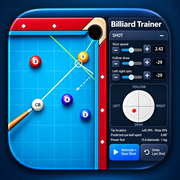
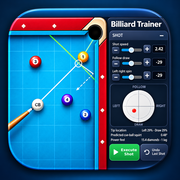
Introduce Trainer, Play, and Zen on the installer
Expand the hero with the all-in-one platform description and add friendly explanations of all three experiences. Replace the older installer artwork and PWA icons with approved green Execute Shot assets, and refresh their URLs. Keep the shared community script from starting Trainer controls on installer pages.

Changed region(s): [[0.5833, 0.7778, 0.7778, 0.9167]]

diff --git a/install/android/index.html b/install/android/index.html
@@ -1,1 +1,1 @@
-<!doctype html><html lang="en"><head><meta charset="utf-8"><meta name="viewport" content="width=device-width,initial-scale=1,viewport-fit=cover"><meta name="theme-color" content="#11151b"><link rel="icon" href="../assets/billiards-trainer-icon.png"><link rel="stylesheet" href="../assets/installer.css"><title>Billiards Trainer – Android Installer</title></head><body><div class="shell"><a class="back" href="../">← Universal installer</a><div class="brand"><img src="../assets/billiards-trainer-icon.png" alt="Billiards Trainer icon"><div><h1>Billiards Trainer 4.12</h1><p>Android full-screen edition</p></div></div><div class="card recommended"><h2>Install Billiards Trainer</h2><p class="lead">The full-screen Android app removes the browser bars and opens directly into the current AI Camera Edition.</p><div class="actions"><a class="btn install-primary" href="../../downloads/Billiards-Trainer-Android.apk" download>INSTALL BILLIARDS TRAINER</a></div><div class="notice" style="margin-top:18px"><strong>First install only:</strong> Android may ask for permission to install apps from your browser. Choose <strong>Settings → Allow from this source</strong>, then return and tap <strong>Install</strong>. This is Android's normal protection for apps installed outside Google Play.</div><p class="muted small" style="margin-bottom:0">After installation, use the Billiards Trainer icon like any other app. Future trainer updates load automatically; you only need a new APK when the wrapper itself changes.</p></div><div class="card"><h2>Send this installer to someone</h2><p class="muted">Share this page—not GitHub, not a ZIP file.</p><div class="actions"><button class="btn secondary" onclick="toggleQR('qr')">Show QR code</button><button class="btn secondary" onclick="copyText('https://lovemyfreetime.github.io/billiards-trainer/install/android/',this)">Copy link</button><button class="btn secondary" onclick="shareLink('Billiards Trainer Android Installer','https://lovemyfreetime.github.io/billiards-trainer/install/android/')">Share link</button></div><div id="qr" class="qrbox"><img src="../qr/android.png" alt="Android installer QR"><div class="qrurl">https://lovemyfreetime.github.io/billiards-trainer/install/android/</div></div></div><footer>Billiards Trainer 4.12 · Android full-screen edition</footer></div><script src="../assets/installer.js"></script></body></html>
+<!doctype html><html lang="en"><head><meta charset="utf-8"><meta name="viewport" content="width=device-width,initial-scale=1,viewport-fit=cover"><meta name="theme-color" content="#11151b"><link rel="icon" href="../assets/billiards-trainer-icon.png?v=green-execute-v2"><link rel="stylesheet" href="../assets/installer.css"><title>Billiards Trainer – Android Installer</title></head><body><div class="shell"><a class="back" href="../">← Universal installer</a><div class="brand"><img src="../assets/billiards-trainer-icon.png?v=green-execute-v2" alt="Billiards Trainer icon"><div><h1>Billiards Trainer 4.12</h1><p>Android full-screen edition</p></div></div><div class="card recommended"><h2>Install Billiards Trainer</h2><p class="lead">The full-screen Android app removes the browser bars and opens directly into the current AI Camera Edition.</p><div class="actions"><a class="btn install-primary" href="../../downloads/Billiards-Trainer-Android.apk" download>INSTALL BILLIARDS TRAINER</a></div><div class="notice" style="margin-top:18px"><strong>First install only:</strong> Android may ask for permission to install apps from your browser. Choose <strong>Settings → Allow from this source</strong>, then return and tap <strong>Install</strong>. This is Android's normal protection for apps installed outside Google Play.</div><p class="muted small" style="margin-bottom:0">After installation, use the Billiards Trainer icon like any other app. Future trainer updates load automatically; you only need a new APK when the wrapper itself changes.</p></div><div class="card"><h2>Send this installer to someone</h2><p class="muted">Share this page—not GitHub, not a ZIP file.</p><div class="actions"><button class="btn secondary" onclick="toggleQR('qr')">Show QR code</button><button class="btn secondary" onclick="copyText('https://lovemyfreetime.github.io/billiards-trainer/install/android/',this)">Copy link</button><button class="btn secondary" onclick="shareLink('Billiards Trainer Android Installer','https://lovemyfreetime.github.io/billiards-trainer/install/android/')">Share link</button></div><div id="qr" class="qrbox"><img src="../qr/android.png" alt="Android installer QR"><div class="qrurl">https://lovemyfreetime.github.io/billiards-trainer/install/android/</div></div></div><footer>Billiards Trainer 4.12 · Android full-screen edition</footer></div><script src="../assets/installer.js"></script></body></html>

diff --git a/install/index.html b/install/index.html
@@ -9,20 +9,40 @@
   <meta name="apple-mobile-web-app-status-bar-style" content="black-translucent">
   <meta name="apple-mobile-web-app-title" content="Trainer Installer">
   <link rel="manifest" href="./manifest.webmanifest">
-  <link rel="apple-touch-icon" href="../apple-touch-icon.png">
-  <link rel="icon" href="./assets/billiards-trainer-icon.png">
-  <link rel="stylesheet" href="./assets/installer.css">
+  <link rel="apple-touch-icon" href="../apple-touch-icon.png?v=green-execute-v2">
+  <link rel="icon" href="./assets/billiards-trainer-icon.png?v=green-execute-v2">
+  <link rel="stylesheet" href="./assets/installer.css?v=three-experiences-v1">
+  <meta name="description" content="Visual training, 20 table-side social games, and distraction-free Zen practice. Install Billiards Trainer on Android, iPad, Chromebook, or Windows.">
   <title>Billiards Trainer AI Edition 4.12 Installer</title>
 </head>
 <body>
   <div class="shell">
     <header class="brand installer-hero">
-      <div class="hero-icon-wrap"><img src="./assets/billiards-trainer-icon.png" alt="Billiards Trainer icon"></div>
+      <div class="hero-icon-wrap"><img src="./assets/billiards-trainer-icon.png?v=green-execute-v2" alt="Billiards Trainer icon"></div>
       <div class="brand-copy">
         <h1>Billiards Trainer <span>AI Edition 4.12 <small class="beta-label">BETA</small></span></h1>
-        <p class="hero-description">A visual billiards training system for learning, teaching and practicing shots, banks, kicks, speed, English and cue-ball paths. Build shots on screen, save layouts, use camera-assisted table setup, or project the trainer onto a real pool table.</p>
+        <p class="hero-description">Billiards Trainer is an all-in-one visual training, table-side gaming, and flow-state practice platform for pool players, coaches, and enthusiasts.</p>
+        <p class="hero-detail">Whether you are mapping out complex cue-ball trajectories on your screen, competing with friends in 20 social game variations with hands-free audio announcements, or slipping into a distraction-free solitary practice session, Billiards Trainer bridges real-world physics with cutting-edge table tools.</p>
       </div>
     </header>
+
+    <section class="experiences" aria-labelledby="experiences-title">
+      <div class="experiences-heading"><div><h2 id="experiences-title">Three experiences. One app.</h2><p>Learn a shot, share a game, or settle into your own rhythm.</p></div><a class="btn secondary" href="../welcome.html">Explore the app</a></div>
+      <div class="experience-grid">
+        <article class="card experience-card experience-zen">
+          <h3><a href="../?zen=1">Zen</a></h3>
+          <p>Slow down and enjoy the table. A calm, uncluttered setting gives you room to experiment with aim, speed, follow, draw, and spin. Choose a rack or create your own layout, watch the paths unfold, and use Undo to try a different approach. It’s a relaxed space for curiosity and practice at your own pace.</p>
+        </article>
+        <article class="card experience-card experience-trainer">
+          <h3><a href="../?train=1">Trainer</a></h3>
+          <p>See the shot. Understand the next one. Build layouts, explore banks and kicks, and compare how speed and English change the cue-ball path. Guided lessons, drills, two-shot planning, and jump and massé tools help you practice with purpose. Bring in an image of your real table, save setups to revisit, or use a projector to take your practice onto the cloth.</p>
+        </article>
+        <article class="card experience-card experience-play">
+          <h3><a href="../play.html">Play</a></h3>
+          <p>Bring something new to your next game night. Choose from 20 social games, including Kelly Pool, Killer, Cutthroat, Poker Pool, and Bowliards. Clear house rules, player prompts, and simple scorekeeping keep things moving at your real pool table. Turn on audio for spoken turn and result announcements, correct an entry with Undo, and resume a saved game when you’re ready.</p>
+        </article>
+      </div>
+    </section>
 
     <div class="grid installer-grid">
       <div class="card device" data-device="android">
@@ -174,6 +194,6 @@
   </div>
   <script src="./assets/installer.js"></script>
   <script src="../beta-config.js?v=1"></script>
-  <script src="../beta-ui.js?v=1"></script>
+  <script src="../beta-ui.js?v=installer-experiences-v155"></script>
 </body>
 </html>

diff --git a/install/assets/installer.css b/install/assets/installer.css
@@ -28,3 +28,8 @@ footer{padding:18px 4px 4px;color:#7f91a4;text-align:center;font-size:12px}
 #btCommunityFrame{display:block;width:100%;height:660px;min-height:660px;border:0;border-radius:14px;background:#090d12;overflow:hidden}
 .team-tools{margin-top:22px;padding:14px 18px}.team-tools summary::-webkit-details-marker{display:none}.team-tools-summary{list-style:none;cursor:pointer;display:flex;align-items:center;justify-content:space-between;gap:14px;font-weight:800;color:#c9d7e5;letter-spacing:.03em}.team-tools-summary::after{content:'+';font-size:24px;line-height:1;color:var(--accent2)}.team-tools[open] .team-tools-summary::after{content:'−'}.team-tools-body{margin-top:14px;padding-top:16px;border-top:1px solid #304154}
 @media(max-width:620px){.community-card h2{font-size:23px}.community-card p{font-size:15px}#btCommunityFrame{height:740px;min-height:740px}}
+
+/* The app's three experiences, in the same order as the opening screen. */
+.brand .hero-detail{font-size:18px;line-height:1.6;margin-top:16px;color:#becdd9;max-width:790px}
+.experiences{margin:0 0 28px}.experiences-heading{display:flex;align-items:center;justify-content:space-between;gap:20px;margin-bottom:16px}.experiences-heading h2{margin:0 0 7px;font-size:clamp(25px,3vw,32px)}.experiences-heading p{margin:0;color:var(--muted);line-height:1.5}.experiences-heading>.btn{flex-shrink:0}.experience-grid{display:grid;grid-template-columns:repeat(3,minmax(0,1fr));gap:14px}.experience-card{margin:0;padding:24px;border-top:3px solid var(--experience-color)}.experience-zen{--experience-color:#c5a880}.experience-trainer{--experience-color:#77c8ff}.experience-play{--experience-color:#60d394}.experience-card h3{font-size:25px;margin:0 0 13px}.experience-card h3 a{color:var(--experience-color);text-decoration:none}.experience-card h3 a:hover{text-decoration:underline}.experience-card p{margin:0;font-size:16px;line-height:1.65;color:#c7d5df}.experience-card a:focus-visible{outline:3px solid var(--accent2);outline-offset:4px}
+@media(max-width:900px){.experience-grid{grid-template-columns:1fr}.experience-card{padding:20px}.experiences-heading{align-items:flex-start}}@media(max-width:620px){.experiences-heading{flex-direction:column}.brand .hero-detail{text-align:left;font-size:17px}.experiences-heading>.btn{width:100%}}

diff --git a/install/windows/index.html b/install/windows/index.html
@@ -4,7 +4,7 @@
   <meta charset="utf-8">
   <meta name="viewport" content="width=device-width,initial-scale=1,viewport-fit=cover">
   <meta name="theme-color" content="#11151b">
-  <link rel="icon" href="../assets/billiards-trainer-icon.png">
+  <link rel="icon" href="../assets/billiards-trainer-icon.png?v=green-execute-v2">
   <link rel="stylesheet" href="../assets/installer.css">
   <title>Billiards Trainer AI Edition 4.12 — Windows Installer</title>
 </head>
@@ -13,7 +13,7 @@
     <a class="back" href="../">← Universal Installer</a>
 
     <header class="brand installer-hero">
-      <div class="hero-icon-wrap"><img src="../assets/billiards-trainer-icon.png" alt="Billiards Trainer icon"></div>
+      <div class="hero-icon-wrap"><img src="../assets/billiards-trainer-icon.png?v=green-execute-v2" alt="Billiards Trainer icon"></div>
       <div class="brand-copy">
         <h1>Billiards Trainer <span>AI Edition 4.12</span></h1>
         <p class="hero-description">Windows App Installer</p>

diff --git a/install/chromebook/index.html b/install/chromebook/index.html
@@ -4,7 +4,7 @@
   <meta charset="utf-8">
   <meta name="viewport" content="width=device-width,initial-scale=1,viewport-fit=cover">
   <meta name="theme-color" content="#11151b">
-  <link rel="icon" href="../assets/billiards-trainer-icon.png">
+  <link rel="icon" href="../assets/billiards-trainer-icon.png?v=green-execute-v2">
   <link rel="stylesheet" href="../assets/installer.css">
   <title>Billiards Trainer AI Edition 4.12 — Chromebook Installer</title>
 </head>
@@ -14,7 +14,7 @@
 
     <header class="brand installer-hero">
       <div class="hero-icon-wrap">
-        <img src="../assets/billiards-trainer-icon.png" alt="Billiards Trainer icon">
+        <img src="../assets/billiards-trainer-icon.png?v=green-execute-v2" alt="Billiards Trainer icon">
       </div>
       <div class="brand-copy">
         <h1>Billiards Trainer <span>AI Edition 4.12</span></h1>

diff --git a/install/apple/index.html b/install/apple/index.html
@@ -4,7 +4,7 @@
   <meta charset="utf-8">
   <meta name="viewport" content="width=device-width,initial-scale=1,viewport-fit=cover">
   <meta name="theme-color" content="#11151b">
-  <link rel="icon" href="../assets/billiards-trainer-icon.png">
+  <link rel="icon" href="../assets/billiards-trainer-icon.png?v=green-execute-v2">
   <link rel="stylesheet" href="../assets/installer.css">
   <title>Billiards Trainer AI Edition 4.12 — iPad Installer</title>
 </head>
@@ -14,7 +14,7 @@
 
     <header class="brand installer-hero">
       <div class="hero-icon-wrap">
-        <img src="../assets/billiards-trainer-icon.png" alt="Billiards Trainer icon">
+        <img src="../assets/billiards-trainer-icon.png?v=green-execute-v2" alt="Billiards Trainer icon">
       </div>
       <div class="brand-copy">
         <h1>Billiards Trainer <span>AI Edition 4.12</span></h1>

diff --git a/beta-ui.js b/beta-ui.js
@@ -95,6 +95,7 @@
     const cfg = window.BilliardsBetaConfig || {};
     setupCommunity(cfg);
     setupFeedback(cfg);
+    if(!document.getElementById("app")) return;
     setupZenLauncher();
     const zenScript=document.createElement('script');zenScript.src='./zen-mode.js?v=experience-order-v57';document.body.appendChild(zenScript);
   }

diff --git a/service-worker.js b/service-worker.js
@@ -1,4 +1,4 @@
-const CACHE_NAME = 'billiards-trainer-4-12-play-catalog-entry-v153';
+const CACHE_NAME = 'billiards-trainer-4-12-installer-experiences-v154';
 const CACHE_PREFIX = 'billiards-trainer-4-12-';
 const APP_SHELL = [
   './welcome.html',
